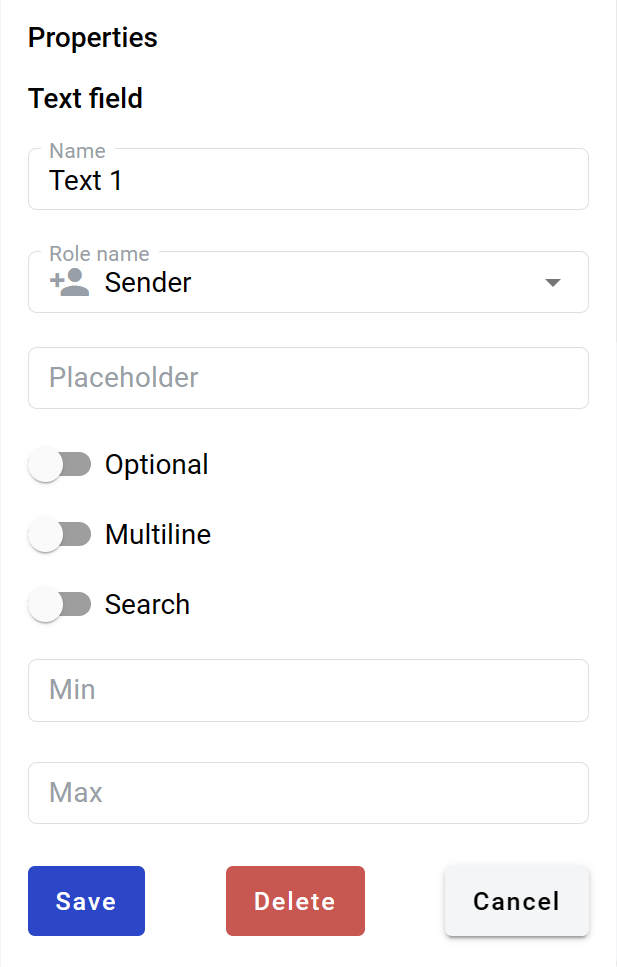
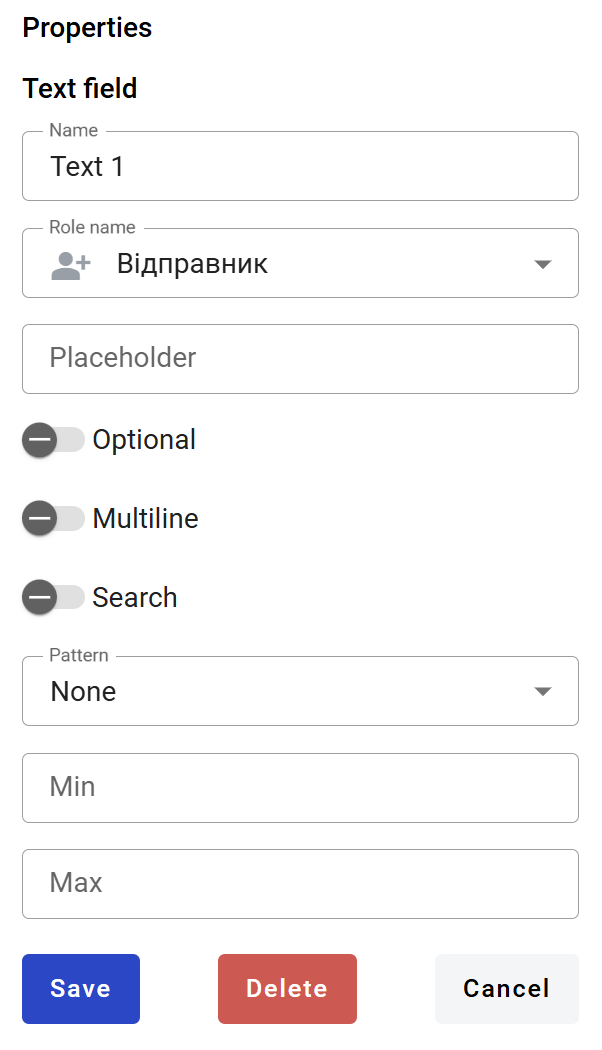
Patterns and build error fixes (#292)

diff --git a/docs/source/pages/howToWorkWithPlatform/mainApplication/templateList/templateManagement/documentManagementOnTemplate/fields/text/text.rst b/docs/source/pages/howToWorkWithPlatform/mainApplication/templateList/templateManagement/documentManagementOnTemplate/fields/text/text.rst
@@ -31,9 +31,13 @@ How to add text field to the document
 
 .. note:: Standart character limit is 1000 for singleline filed and 5000 for multiline field.
 
-8. Search - this attribute specifies if this field should be eligible for mailbox page search
-9. Min - minimum number of characters required for field (no limit is applied if left empty)
-10. Max - maximum number of characters required for field (standart limit is applied if left empty)
+8. Search - this attribute specifies if this field should be eligible for mailbox page 
+9. Pattern - this attribute specifies the pattern that will be applied to the field content for validation. You can select one of pattern presets or a custom option to enter your own regular expression
+
+.. hint:: Custom option uses ECMAScript (JavaScript) RegEx syntax with some exceptions: lookbehinds and sticky flag are not supported, \p{L} is the only supported Unicode property escape.
+
+10. Min - minimum number of characters required for field (no limit is applied if left empty)
+11. Max - maximum number of characters required for field (standart limit is applied if left empty)
 
 When all attributes are set, you can click Save button and field will be added. You can click field to see its properties and update them. Also you can delete the field in same menu.
 

diff --git a/docs/source/pages/howToWorkWithPlatform/adminApplication/integration/conversionRule/conversionRuleInfo.rst b/docs/source/pages/howToWorkWithPlatform/adminApplication/integration/conversionRule/conversionRuleInfo.rst
@@ -32,18 +32,19 @@ There are 4 static methods:
 | Extension accepts alias name and return mailboxUUID. Can be used to configure recipients in flow. Instead of mailboxAlias can be path to respective value in original document.
 
 XSLT Predefined Parameters
-============
+==========================
+
 To get rid of duplicate identifiers, the following parameters can be used:
 
 | SENDER_MAILBOX - for current mailbox UUID
 | TEMPLATE_UUID - for selected template UUID in the rule
 | TEMPLATE_VERSION - for selected template version UUID in the rule
 
-.. code-block:: xml
+.. code-block:: 
+    
     <xsl:param name="SENDER_MAILBOX"/>
     <xsl:param name="TEMPLATE_UUID"/>
     <xsl:param name="TEMPLATE_VERSION"/>
-
 
 Conversion rule example for outgoing documents
 ==============================================
